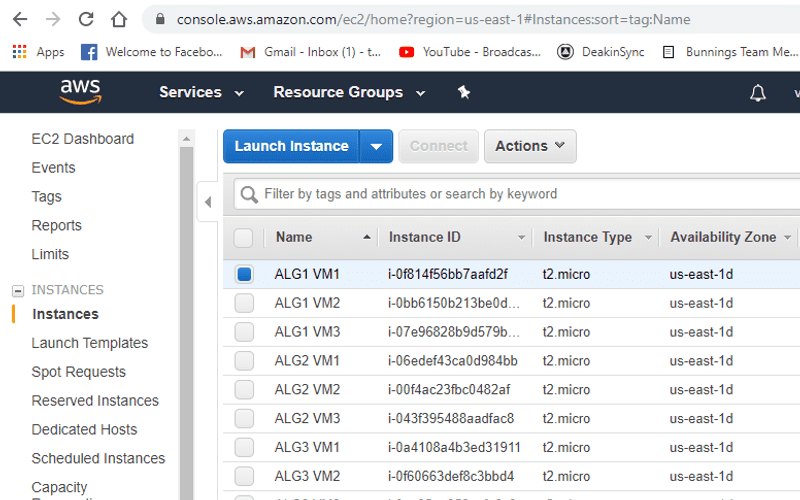
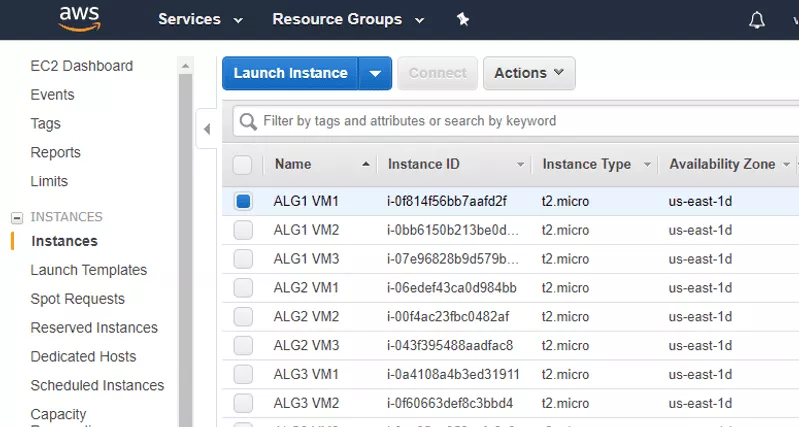
Cropped images, added link for projects in json and added plants project

diff --git a/src/components/resume.js b/src/components/resume.js
@@ -77,7 +77,9 @@ class Resume extends Component {
                 <p className="medium text-left">{project.description}</p>
               </Col>
               <Col>
-                <p className="medium">Technologies used: {project.technology}</p>
+                <p className="medium">
+                  Technologies used: {project.technology}
+                </p>
               </Col>
             </Row>
           </Container>
